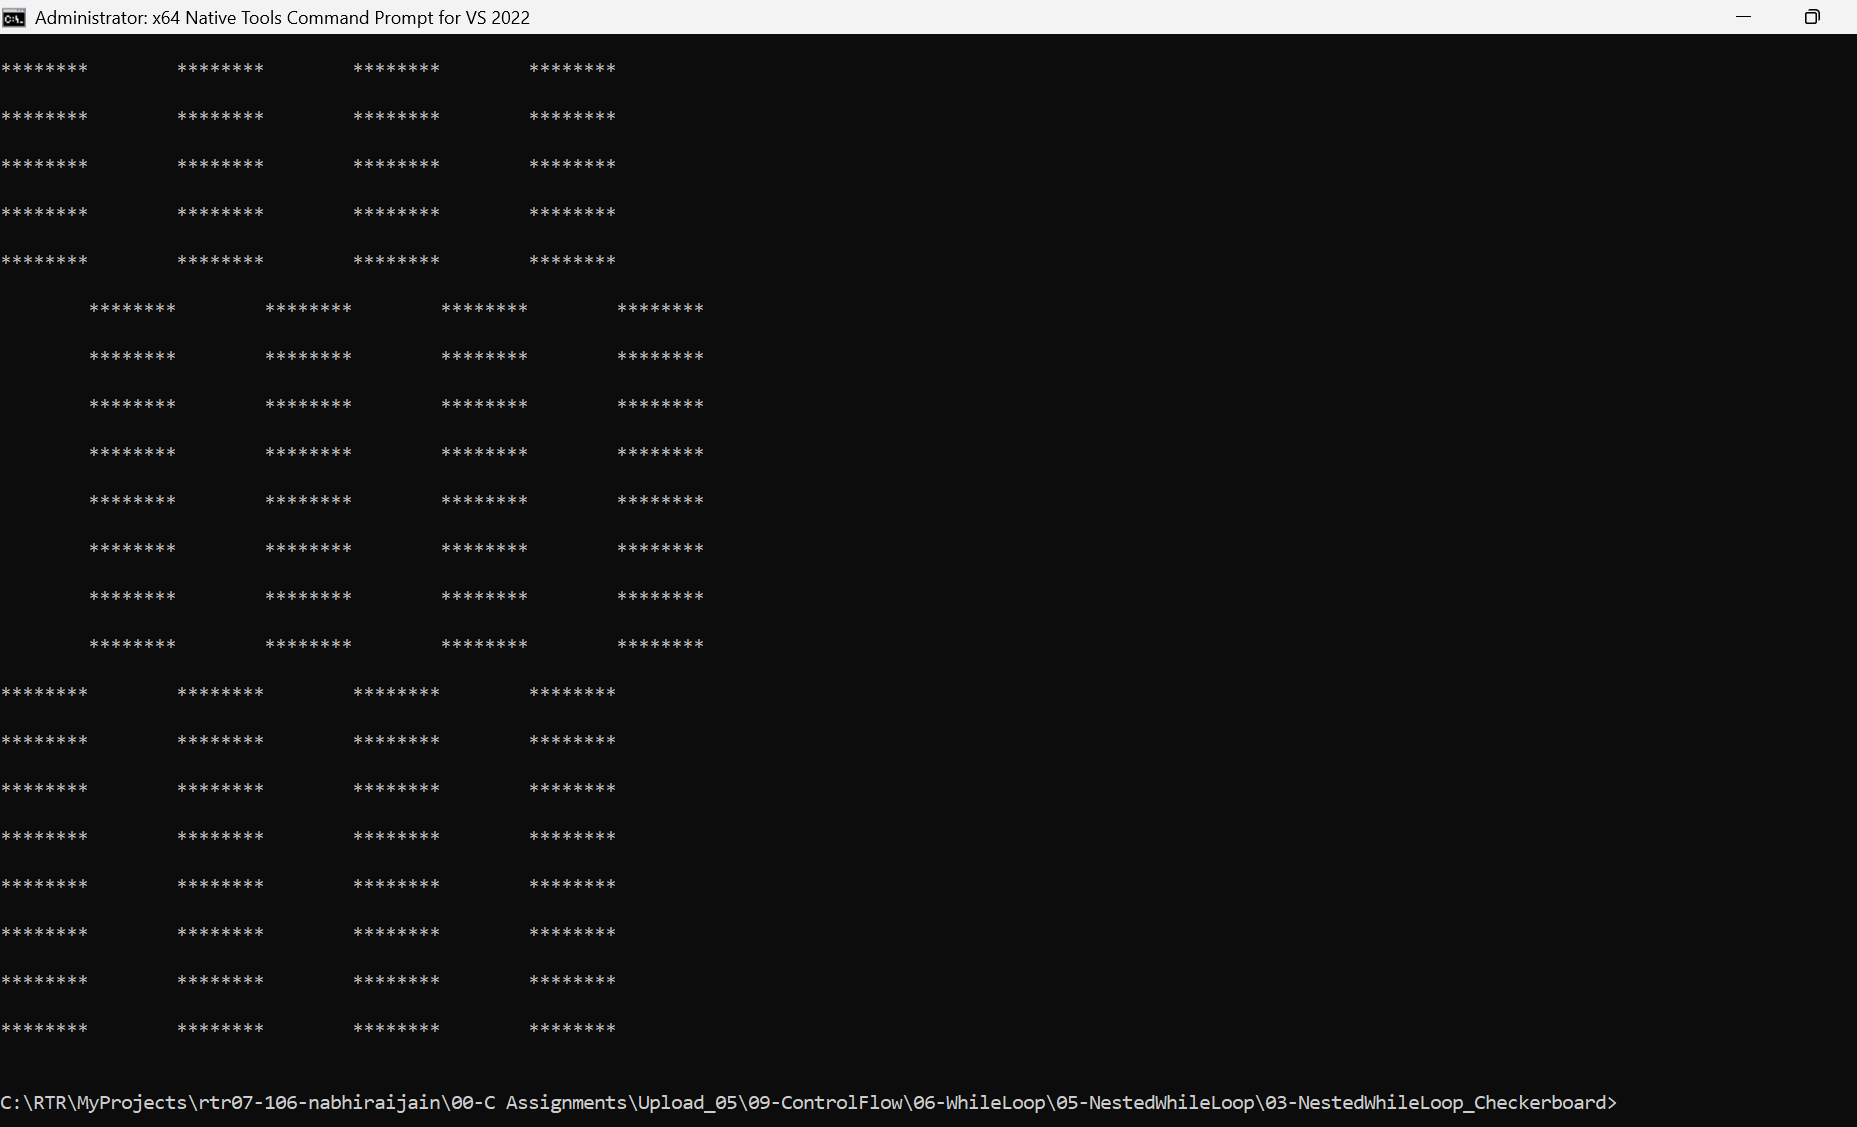
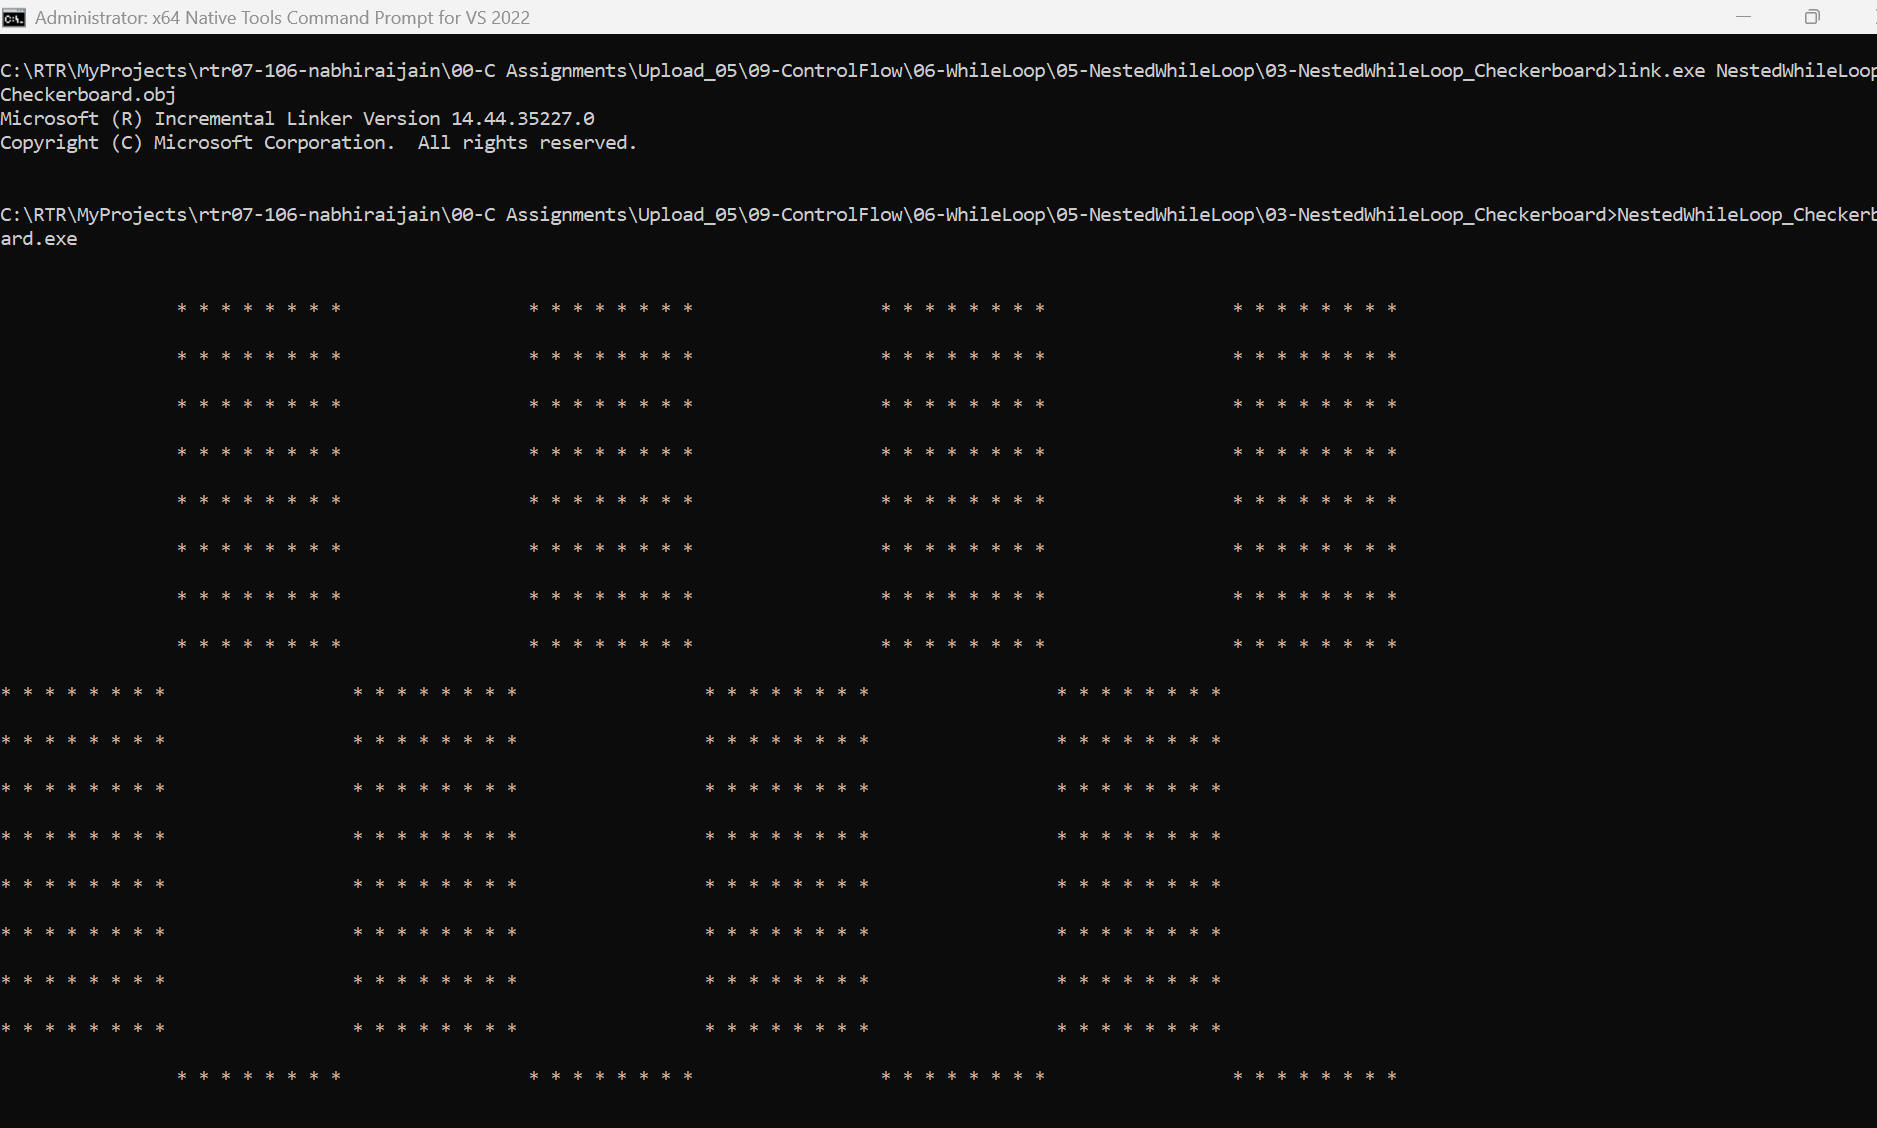
Checker board with while

diff --git a/00-C Assignments/Upload_05/09-ControlFlow/06-WhileLoop/05-NestedWhileLoop/03-NestedWhileLoop_Checkerboard/NestedWhileLoop_Checkerboard.c b/00-C Assignments/Upload_05/09-ControlFlow/06-WhileLoop/05-NestedWhileLoop/03-NestedWhileLoop_Checkerboard/NestedWhileLoop_Checkerboard.c
@@ -5,7 +5,7 @@ int main(void)
 	int nrj_i, nrj_j, nrj_c;
 
 	//code
-	printf("/n/n");
+	printf("\n\n");
 
 	nrj_i = 0;
 	while(nrj_i < 64) 
@@ -20,9 +20,9 @@ int main(void)
 
 			nrj_c = ((nrj_i & 0x8) == 0) ^ ((nrj_j & 0x8) == 0);
 			if (nrj_c == 0)
-				printf(" ");
+				printf("  ");
 			if (nrj_c == 1)
-				printf("*");
+				printf("* ");
 			
 			nrj_j++;
 		}
